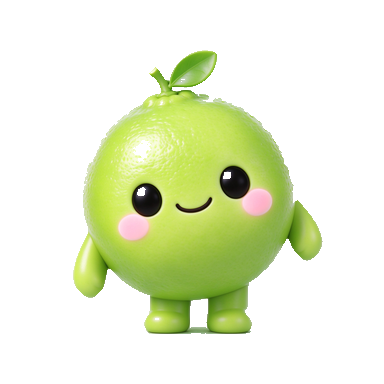
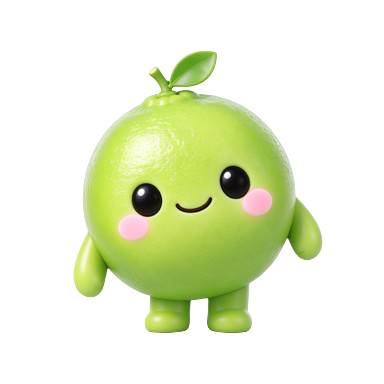
fix: restore intact sway frames 03/04 and bump asset cache
Initial push had a corrupted 03; 04 was overwritten the same way locally—restore from backup before publishing.

diff --git a/web/src/components/QingningPet.tsx b/web/src/components/QingningPet.tsx
@@ -23,7 +23,7 @@ const CYCLE: { phase: Phase; ms: number }[] = [
 ]
 
 /** 抠图更新后改版本号，避免浏览器缓存旧帧 */
-const ASSET_VER = '20'
+const ASSET_VER = '21'
 
 function frameSrc(kind: 'blink' | 'sway', index: number) {
   const n = String(index + 1).padStart(2, '0')
